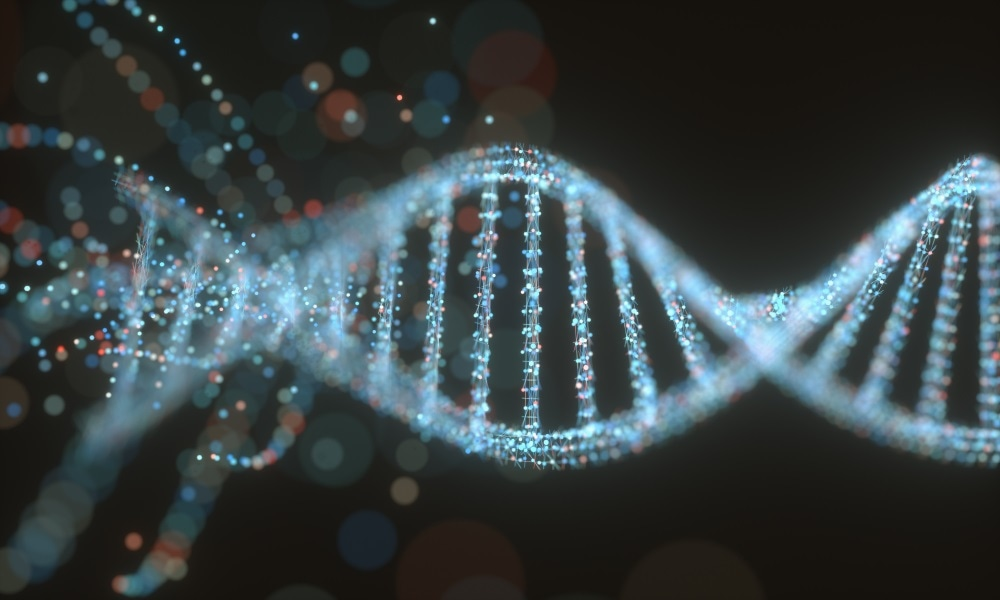
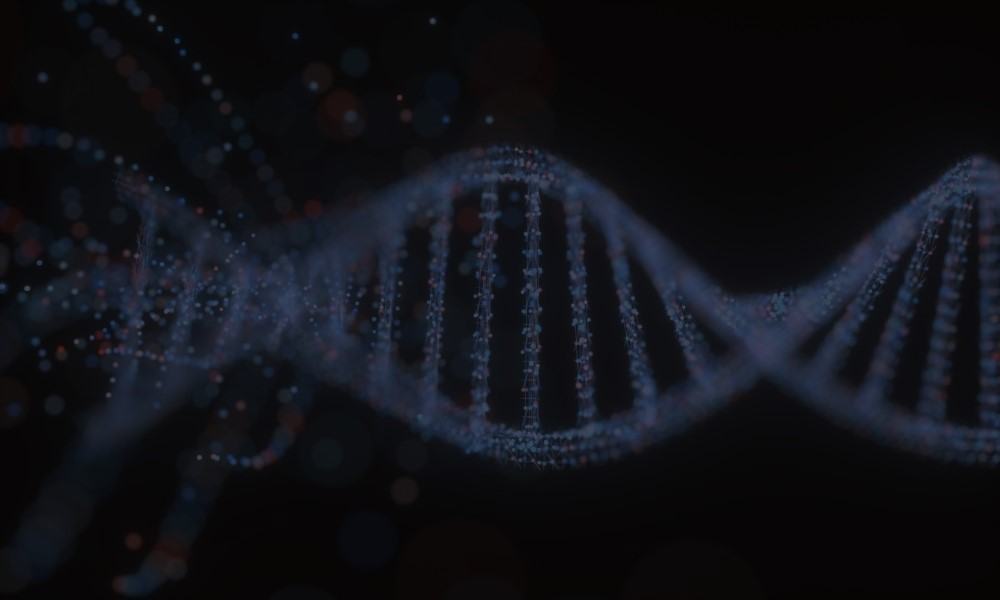
fade background watermark

diff --git a/index.html b/index.html
@@ -10,18 +10,18 @@
   <link rel="stylesheet" href="https://maxcdn.bootstrapcdn.com/bootstrap/3.3.7/css/bootstrap.min.css">
 </head>
 
-<body style="background-image: url(DNAimage.jpg);overflow: scroll;
+<body style="background-image: url(DNAimage.jpg); overflow: scroll;
 background-size: cover;
 background-position: center;">
 
   <div class="container">
     <div class="row">
       <!-- <div class="col-md-12 jumbotron bg-dark text-center"> -->
-        <div class="col-md-12 jumbotron text-center" style="background-image: url(DNAimage.jpg);overflow: hidden;
+        <div class="col-md-12 jumbotron text-center" style="background-image: url(DNAimage.jpg); overflow: hidden;
         background-size: cover;
-        background-position: center; color:rgb(77, 250, 9);">
-        <h1>Belly Button Biodiversity Dashboard</h1>
-        <p>Use the interactive charts below to explore the dataset</p>
+        background-position: center; color:rgb(248, 38, 101);">
+        <h1><b>Belly Button Biodiversity Dashboard</b></h1>
+        <p><b>Use the interactive charts below to explore the dataset</b></p>
       </div>
     </div>
     <div class="row">
@@ -38,10 +38,10 @@ background-position: center;">
           <div id="sample-metadata" class="panel-body"></div>
         </div>
       </div>
-      <div class="col-md-7">
+      <div class="col-md-9">
         <div id="bar"></div>
       </div>
-      <div class="col-md-4">
+      <div class="col-md-3">
         <div id="gauge"></div>
       </div>
     </div>
